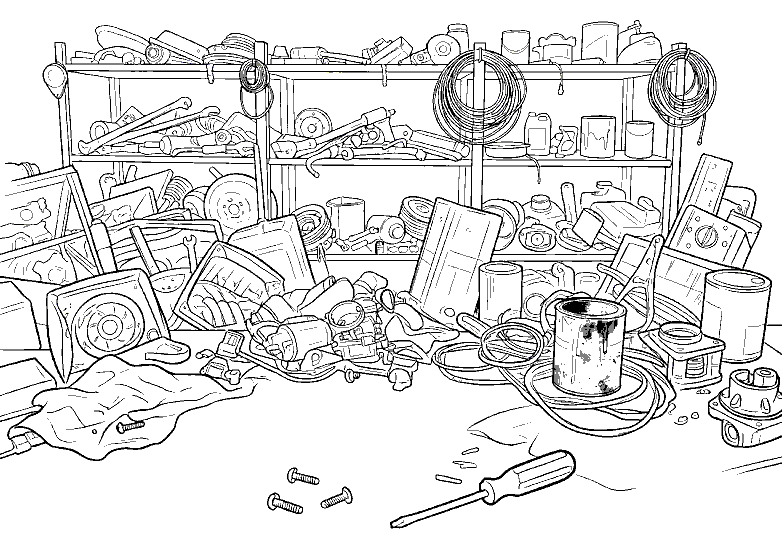
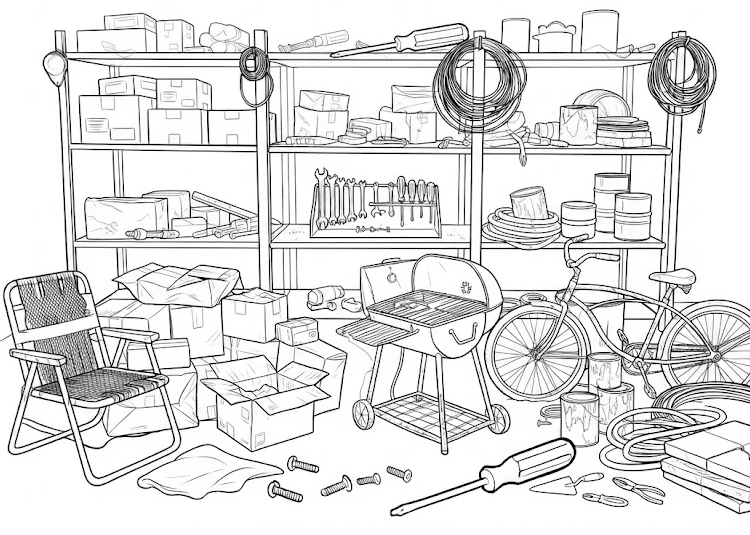
Turn the main headlines and box titles blue, and use the garage drawing for the pile box.

diff --git a/src/styles/site.css b/src/styles/site.css
@@ -202,9 +202,17 @@ h1.lede {
 	font-size: 2.8125rem;
 }
 
+h1.lede.accent {
+	color: var(--color-accent);
+}
+
 h2.lede,
 h2.shout {
 	font-size: 2.8125rem;
+}
+
+h2.lede {
+	color: var(--color-accent);
 }
 
 /* Phone number sits tight under the hook. */
@@ -311,6 +319,7 @@ footer {
 
 .posters h3 {
 	font-size: 2.3625rem;
+	color: var(--color-accent);
 }
 
 /* The drawings are opaque white PNGs; multiply keeps the lines and lets the hover blue show through. */
@@ -342,6 +351,11 @@ footer {
 .posters a:focus-visible,
 .posters a:focus-visible:visited {
 	background: var(--color-accent);
+	color: var(--color-bg);
+}
+
+.posters a:hover h3,
+.posters a:focus-visible h3 {
 	color: var(--color-bg);
 }
 
@@ -417,6 +431,7 @@ footer {
 	align-items: center;
 	gap: 0.65rem;
 	font-weight: 700;
+	color: var(--color-accent);
 }
 
 .actions {

diff --git a/src/pages/index.md b/src/pages/index.md
@@ -39,7 +39,7 @@ nav:
 <p class="pitch"><a href="sms:+17473196969">Text a photo</a> of the pile. We name a price,<br class="served-break"> then show up the <a href="#how-it-works">same day or the next</a>. <a href="#service-promise">You point, we haul.</a></p>
 
 <ul class="posters">
-<li><a href="sms:+17473196969"><img src="/pile.webp" width="782" height="559" alt="" loading="lazy" decoding="async"><h3>Got a pile of junk?</h3><p>Text a pic to 747-319-6969</p></a></li>
+<li><a href="sms:+17473196969"><img src="/pile.webp" width="750" height="535" alt="" loading="lazy" decoding="async"><h3>Got a pile of junk?</h3><p>Text a pic to 747-319-6969</p></a></li>
 <li><a href="#how-it-works"><img src="/price.webp" width="736" height="525" alt="" loading="lazy" decoding="async"><h3>Get your price<br class="mobile-break"> on the spot</h3><p>We tell you everything up front</p></a></li>
 <li><a href="#area"><h3>Proudly serving<br>the San Fernando Valley</h3><p>We drive out</p></a></li>
 <li><a href="#what-we-haul"><h3>Odd jobs</h3><p>Just ask</p></a></li>
